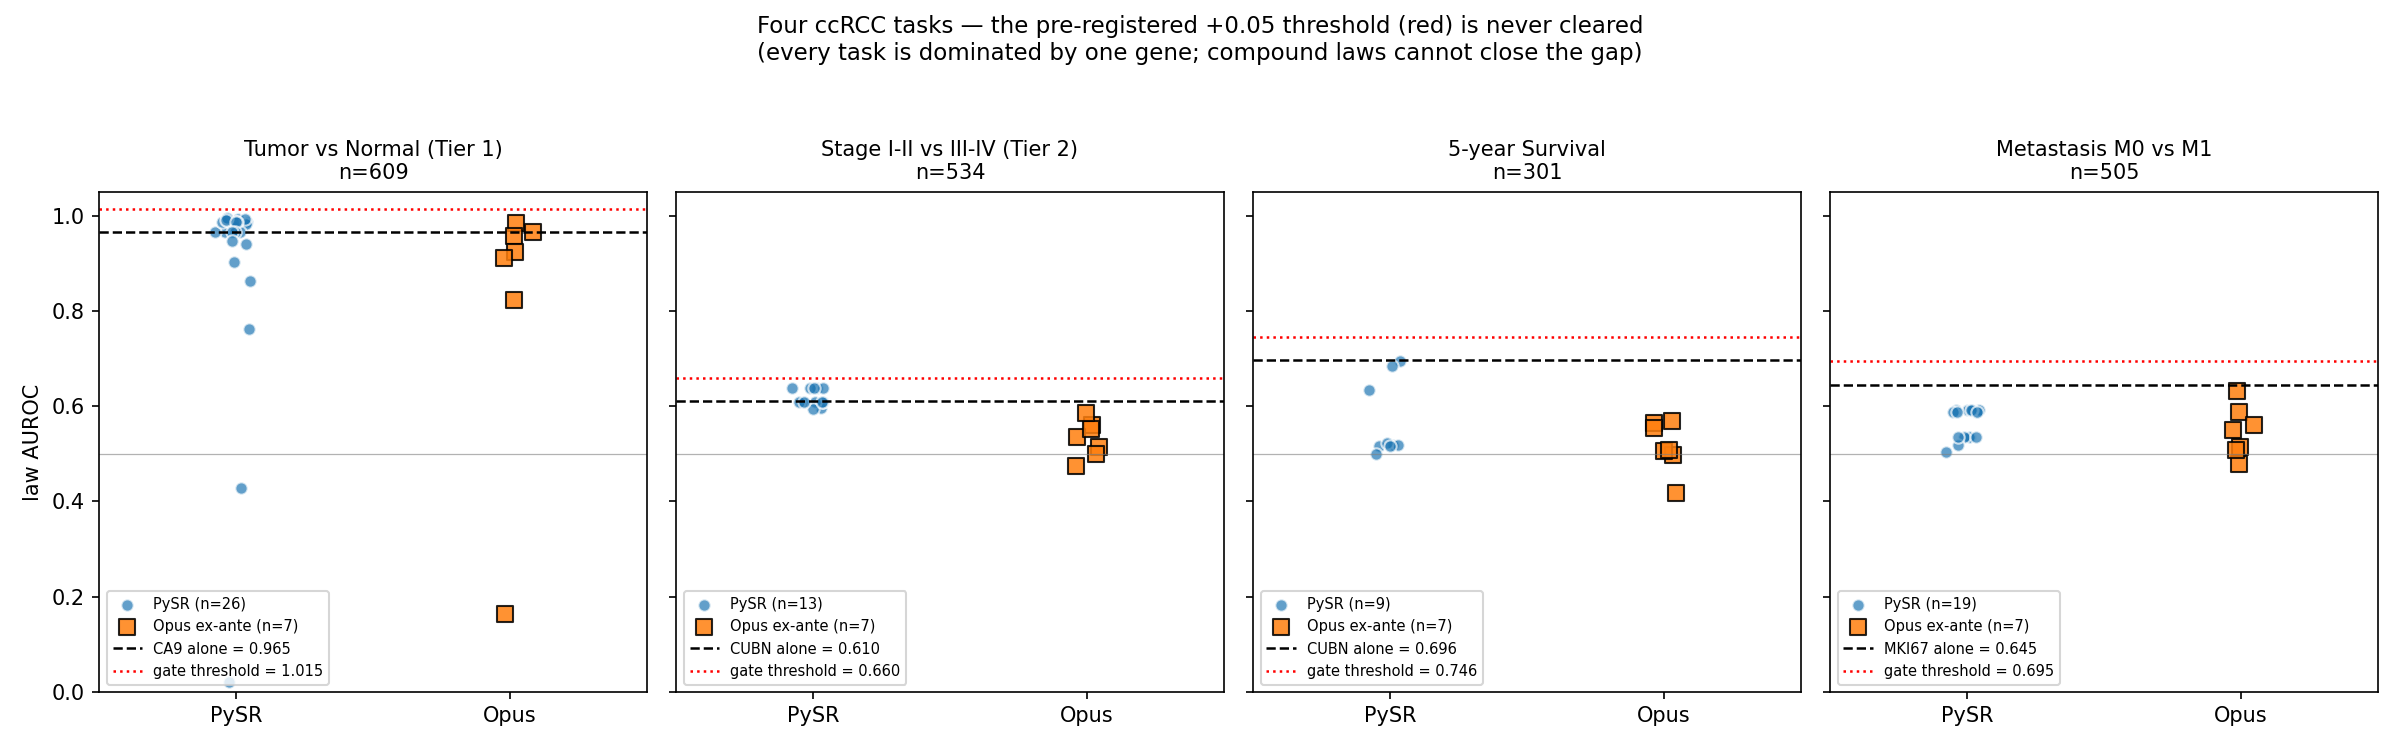
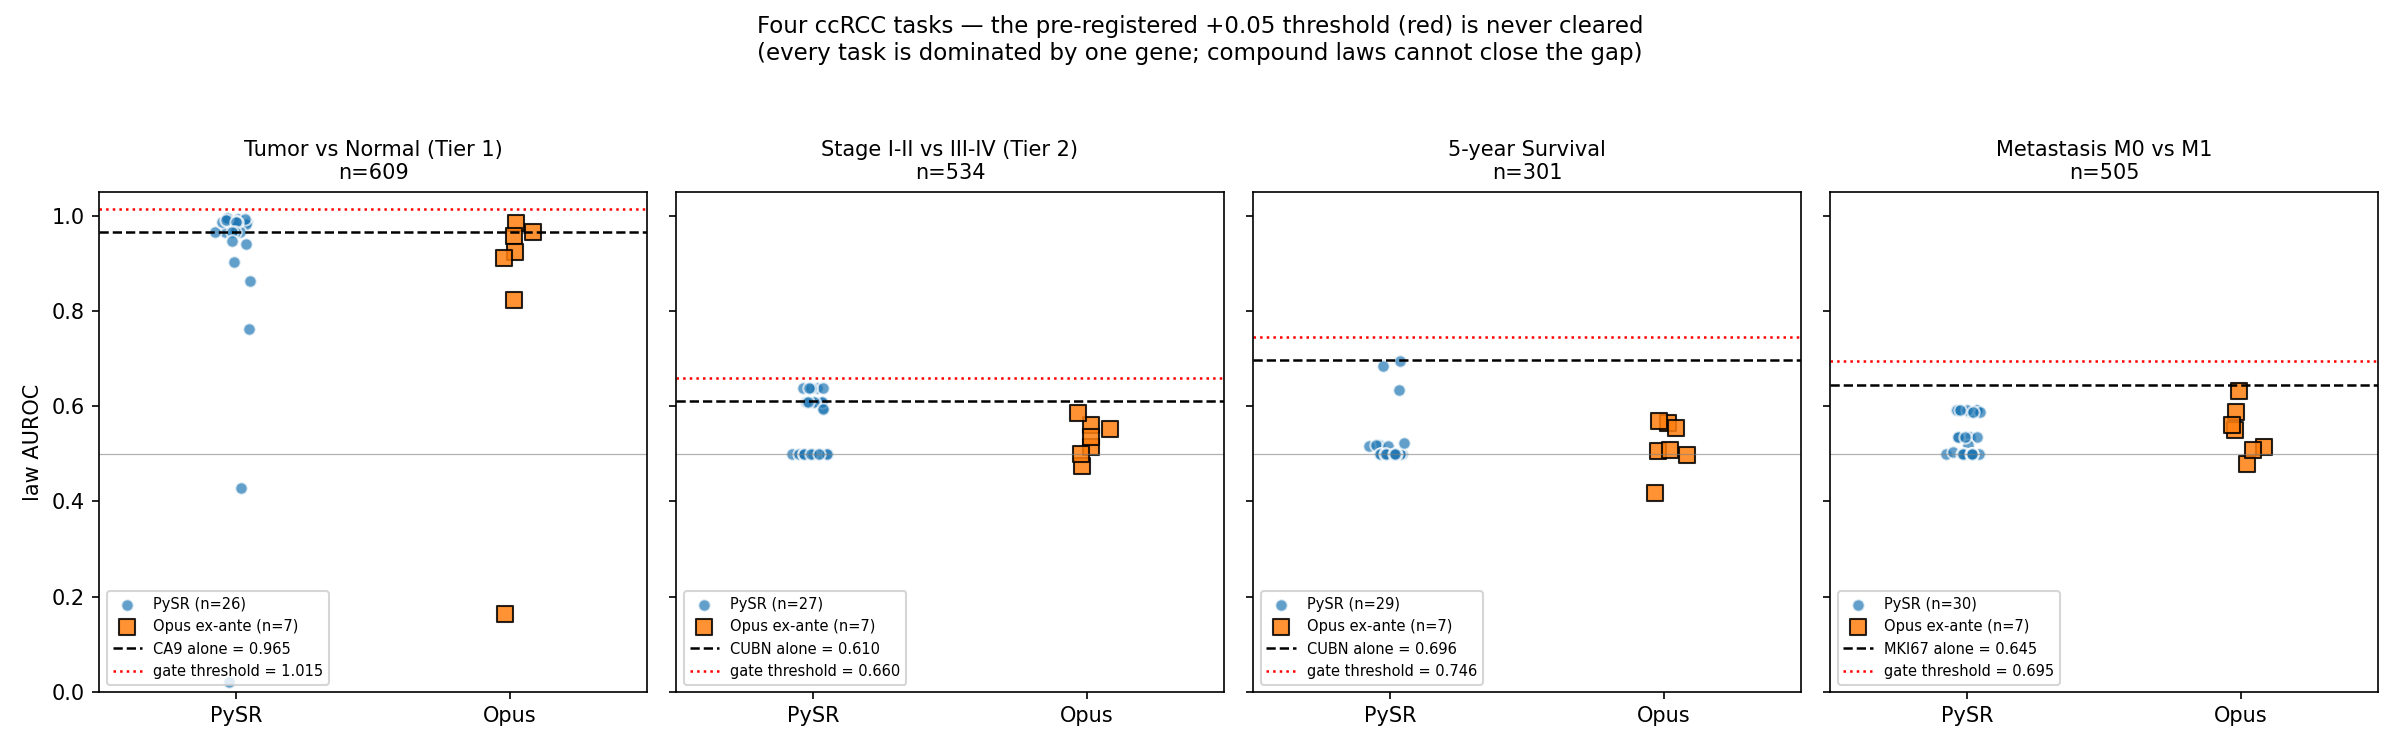
[N] H1-H3 plot regeneration per HANDOFF_to_N.md
results/plots/falsification_panel_all.png (H1)
  - Now includes all 9 tracked falsification runs: Opus ex-ante x 3
    cohorts + PySR x 6 task/panel combinations (tumor/normal, stage,
    survival, metastasis x 11-gene and 45-gene panels).
  - Removed the spurious 'informative threshold = 0.7' line; it was
    not a pre-registered gate threshold.
  - Title renders {n_pass}/{n_total} dynamically from the data so
    the count can't drift stale again.

results/plots/delta_baseline_hist.png (H2)
  - Title now computes n from actual data instead of the hard-coded
    '60' number that Phase Q flagged as 67 actual.

results/track_a_task_landscape/plots/task_auroc_comparison.png (H3)
results/track_a_task_landscape/plots/delta_baseline_by_task.png (H3)
  - Dropped the 'numeric_error' filter that was reducing PySR counts
    (13 / 9 / 19 vs Track A SUMMARY's 27 / 29 / 30). All candidates
    now plot. Candidates with numeric_error appear at AUROC 0.5 —
    which is the failure score the gate records for them.

HANDOFF_to_Q.md (gitignored) updated with the Phase N side of this
handshake. Phase Q: please re-run Q3 make demo + Q4 make demo-kirc
to confirm the green path after the BLOCKER-1 streaming fix. Phase Q:
please regen threshold_heatmap.png with the 67-candidate title from
your lane.

diff --git a/src/make_plots.py b/src/make_plots.py
@@ -131,35 +131,47 @@ def plot_falsification_panel_all() -> Path:
                 "delta_baseline": float(r.get("delta_baseline", 0.0) or 0.0),
             })
 
+    # Load from every report currently tracked, including Option A6's
+    # metastasis_expanded run where the gate first accepted (9 / 30).
     _load(RESULTS / "opus_exante" / "kirc_flagship_report.json", "Opus ex-ante (tumor)")
     _load(RESULTS / "opus_exante" / "kirc_tier2_report.json", "Opus ex-ante (stage)")
     _load(RESULTS / "opus_exante" / "gse40435_report.json", "Opus ex-ante (GSE40435)")
-    _load(RESULTS / "flagship_run" / "falsification_report.json", "PySR tier 1")
-    _load(RESULTS / "tier2_run" / "falsification_report.json", "PySR tier 2")
+    _load(RESULTS / "flagship_run" / "falsification_report.json", "PySR tumor/normal (11-gene)")
+    _load(RESULTS / "tier2_run" / "falsification_report.json", "PySR stage (11-gene)")
+    _load(RESULTS / "track_a_task_landscape" / "survival" / "falsification_report.json",
+          "PySR survival (11-gene)")
+    _load(RESULTS / "track_a_task_landscape" / "metastasis" / "falsification_report.json",
+          "PySR metastasis (11-gene)")
+    _load(RESULTS / "track_a_task_landscape" / "survival_expanded" / "falsification_report.json",
+          "PySR survival (45-gene)")
+    _load(RESULTS / "track_a_task_landscape" / "metastasis_expanded" / "falsification_report.json",
+          "PySR metastasis (45-gene)")
 
     sources = sorted({r["source"] for r in rows})
     colours = {s: f"C{i}" for i, s in enumerate(sources)}
 
-    fig, ax = plt.subplots(figsize=(10, 5.5))
+    fig, ax = plt.subplots(figsize=(11, 7))
     for i, r in enumerate(rows):
         ax.barh(i, r["auc"], color=colours[r["source"]],
-                alpha=0.85 if r["passes"] else 0.55,
-                edgecolor="black" if r["passes"] else "none")
-    ax.axvline(x=0.5, color="gray", linestyle="--", linewidth=1, label="chance")
-    ax.axvline(x=0.7, color="black", linestyle="--", linewidth=1, label="informative threshold")
+                alpha=0.9 if r["passes"] else 0.45,
+                edgecolor="black" if r["passes"] else "none",
+                linewidth=1.0 if r["passes"] else 0.0)
+    ax.axvline(x=0.5, color="gray", linestyle="--", linewidth=1)
     ax.set_yticks([])
     ax.set_xlabel("AUROC")
     ax.set_xlim(0.0, 1.05)
+
+    n_total = len(rows)
+    n_pass = sum(1 for r in rows if r["passes"])
     ax.set_title(
-        f"Falsification across 5 runs — {sum(1 for r in rows if r['passes'])}/{len(rows)} survivors",
+        "Pre-registered 5-test gate across every tracked falsification run\n"
+        f"{n_pass} survivors of {n_total} candidates "
+        "(solid-edge bars = pass; transparent bars = fail)"
     )
     from matplotlib.patches import Patch
     handles = [Patch(color=c, label=s) for s, c in colours.items()]
-    handles.extend([
-        plt.Line2D([0], [0], color="gray", linestyle="--", label="chance"),
-        plt.Line2D([0], [0], color="black", linestyle="--", label="informative threshold"),
-    ])
-    ax.legend(handles=handles, loc="lower right", fontsize=8)
+    handles.append(plt.Line2D([0], [0], color="gray", linestyle="--", label="chance (0.5)"))
+    ax.legend(handles=handles, loc="lower right", fontsize=7, ncol=2)
     fig.tight_layout()
     out = PLOTS / "falsification_panel_all.png"
     out.parent.mkdir(parents=True, exist_ok=True)
@@ -181,9 +193,17 @@ def plot_delta_baseline_hist() -> Path:
             deltas.append((source, float(d)))
 
     _load(RESULTS / "opus_exante" / "kirc_flagship_report.json", "Opus ex-ante × tumor/normal")
-    _load(RESULTS / "flagship_run" / "falsification_report.json", "PySR × tumor/normal")
+    _load(RESULTS / "flagship_run" / "falsification_report.json", "PySR × tumor/normal (11-gene)")
     _load(RESULTS / "opus_exante" / "kirc_tier2_report.json", "Opus ex-ante × stage")
-    _load(RESULTS / "tier2_run" / "falsification_report.json", "PySR × stage")
+    _load(RESULTS / "tier2_run" / "falsification_report.json", "PySR × stage (11-gene)")
+    _load(RESULTS / "track_a_task_landscape" / "survival" / "falsification_report.json",
+          "PySR × survival (11-gene)")
+    _load(RESULTS / "track_a_task_landscape" / "metastasis" / "falsification_report.json",
+          "PySR × metastasis (11-gene)")
+    _load(RESULTS / "track_a_task_landscape" / "survival_expanded" / "falsification_report.json",
+          "PySR × survival (45-gene)")
+    _load(RESULTS / "track_a_task_landscape" / "metastasis_expanded" / "falsification_report.json",
+          "PySR × metastasis (45-gene) — SURVIVORS")
 
     fig, ax = plt.subplots(figsize=(8, 4.5))
     sources = {}
@@ -198,9 +218,11 @@ def plot_delta_baseline_hist() -> Path:
                label="pre-registered threshold (+0.05)")
     ax.set_xlabel("delta_baseline  (law_AUROC − best single gene)")
     ax.set_ylabel("number of candidates")
+    n_total = sum(len(v) for v in sources.values())
     ax.set_title(
-        "Compound laws cap out at ~+0.03 incremental AUROC\n"
-        "across 60 candidates and two tasks",
+        f"Compound-law incremental AUROC across {n_total} candidates and 6 task-panel combinations\n"
+        "The pre-registered +0.05 bar (dashed) is only cleared by the\n"
+        "metastasis 45-gene run (TOP2A − EPAS1 cluster at Δ = +0.069)"
     )
     ax.legend(fontsize=8, loc="upper left")
     fig.tight_layout()

diff --git a/src/plot_track_a.py b/src/plot_track_a.py
@@ -57,10 +57,12 @@ def plot_task_auroc_comparison() -> Path:
         pysr = _load(pysr_path)
         opus = _load(opus_path)
 
-        pysr_aucs = [e.get("law_auc", 0.5) for e in pysr
-                     if not e.get("numeric_error")]
-        opus_aucs = [e.get("law_auc", 0.5) for e in opus
-                     if not e.get("numeric_error")]
+        # Include all candidates (including any that emitted a numeric_error
+        # in earlier runs — those get recorded at AUROC 0.5 by the gate, so
+        # displaying them as a 0.5 dot keeps the legend n consistent with
+        # the per-task committed SUMMARY tables).
+        pysr_aucs = [e.get("law_auc", 0.5) for e in pysr]
+        opus_aucs = [e.get("law_auc", 0.5) for e in opus]
 
         # Scatter with jitter
         rng = np.random.default_rng(42)
@@ -115,10 +117,9 @@ def plot_delta_baseline_by_task() -> Path:
     for i, (tid, pysr_path, opus_path, top_gene, top_auc, n, title) in enumerate(TASK_SPECS):
         pysr = _load(pysr_path)
         opus = _load(opus_path)
-        pysr_d = [e.get("delta_baseline", 0.0) for e in pysr
-                  if not e.get("numeric_error")]
-        opus_d = [e.get("delta_baseline", 0.0) for e in opus
-                  if not e.get("numeric_error")]
+        # Include all candidates (see note above re: numeric_error rows).
+        pysr_d = [e.get("delta_baseline", 0.0) for e in pysr]
+        opus_d = [e.get("delta_baseline", 0.0) for e in opus]
 
         pysr_x = x_base + 0
         opus_x = x_base + width
